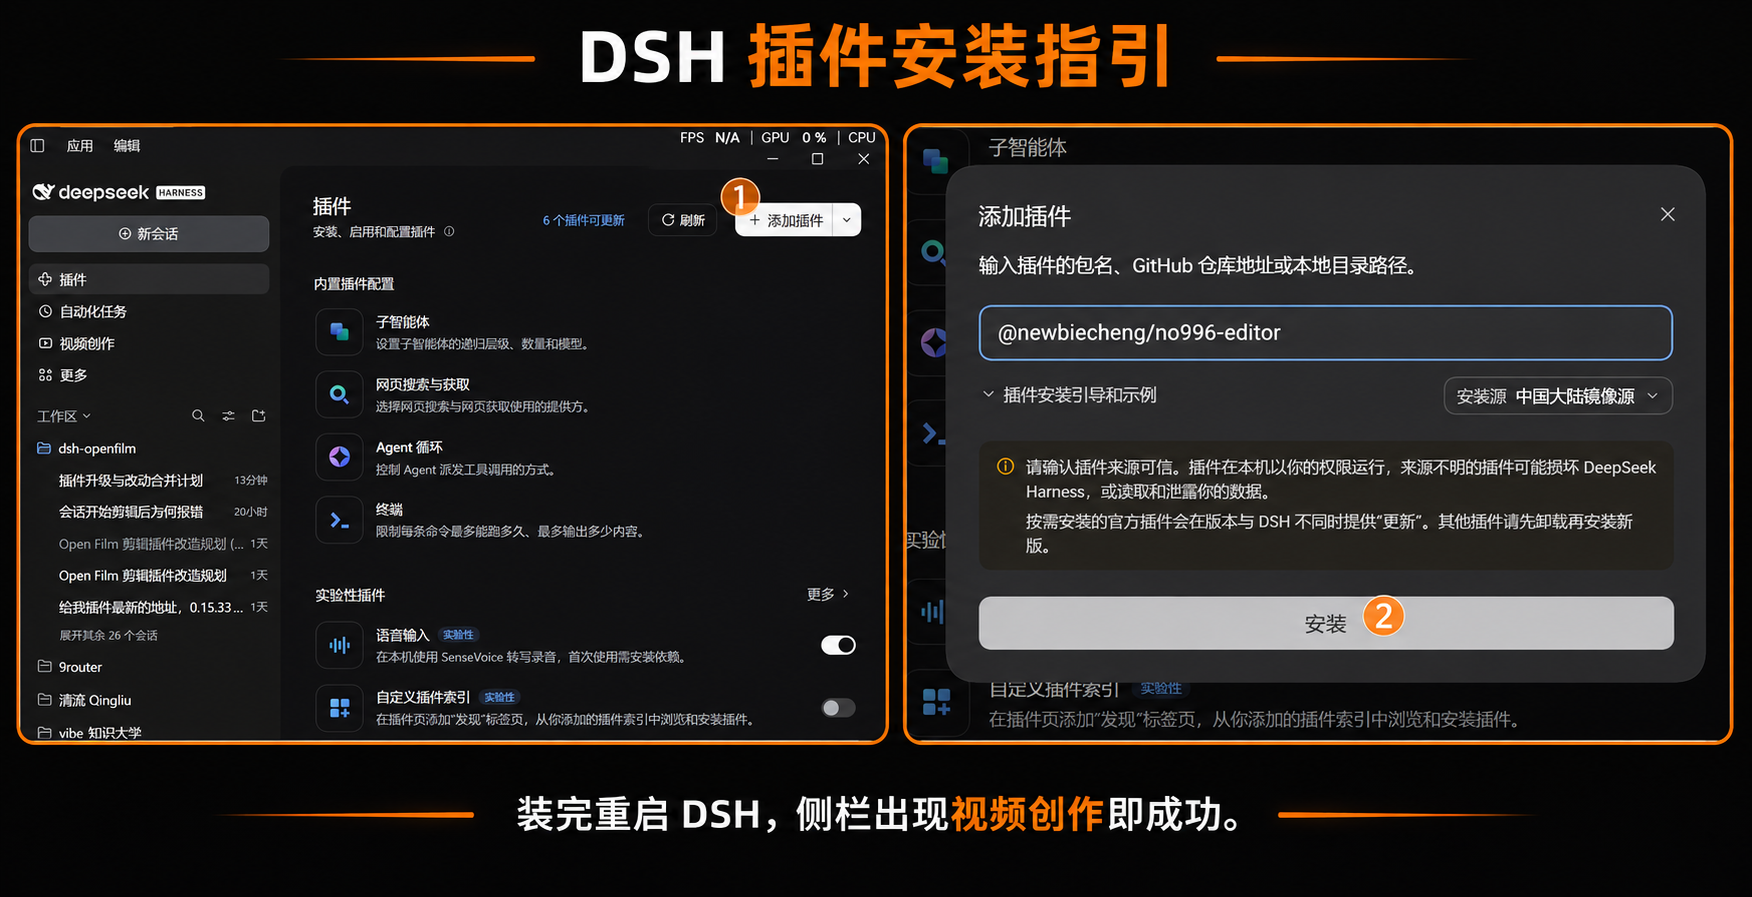
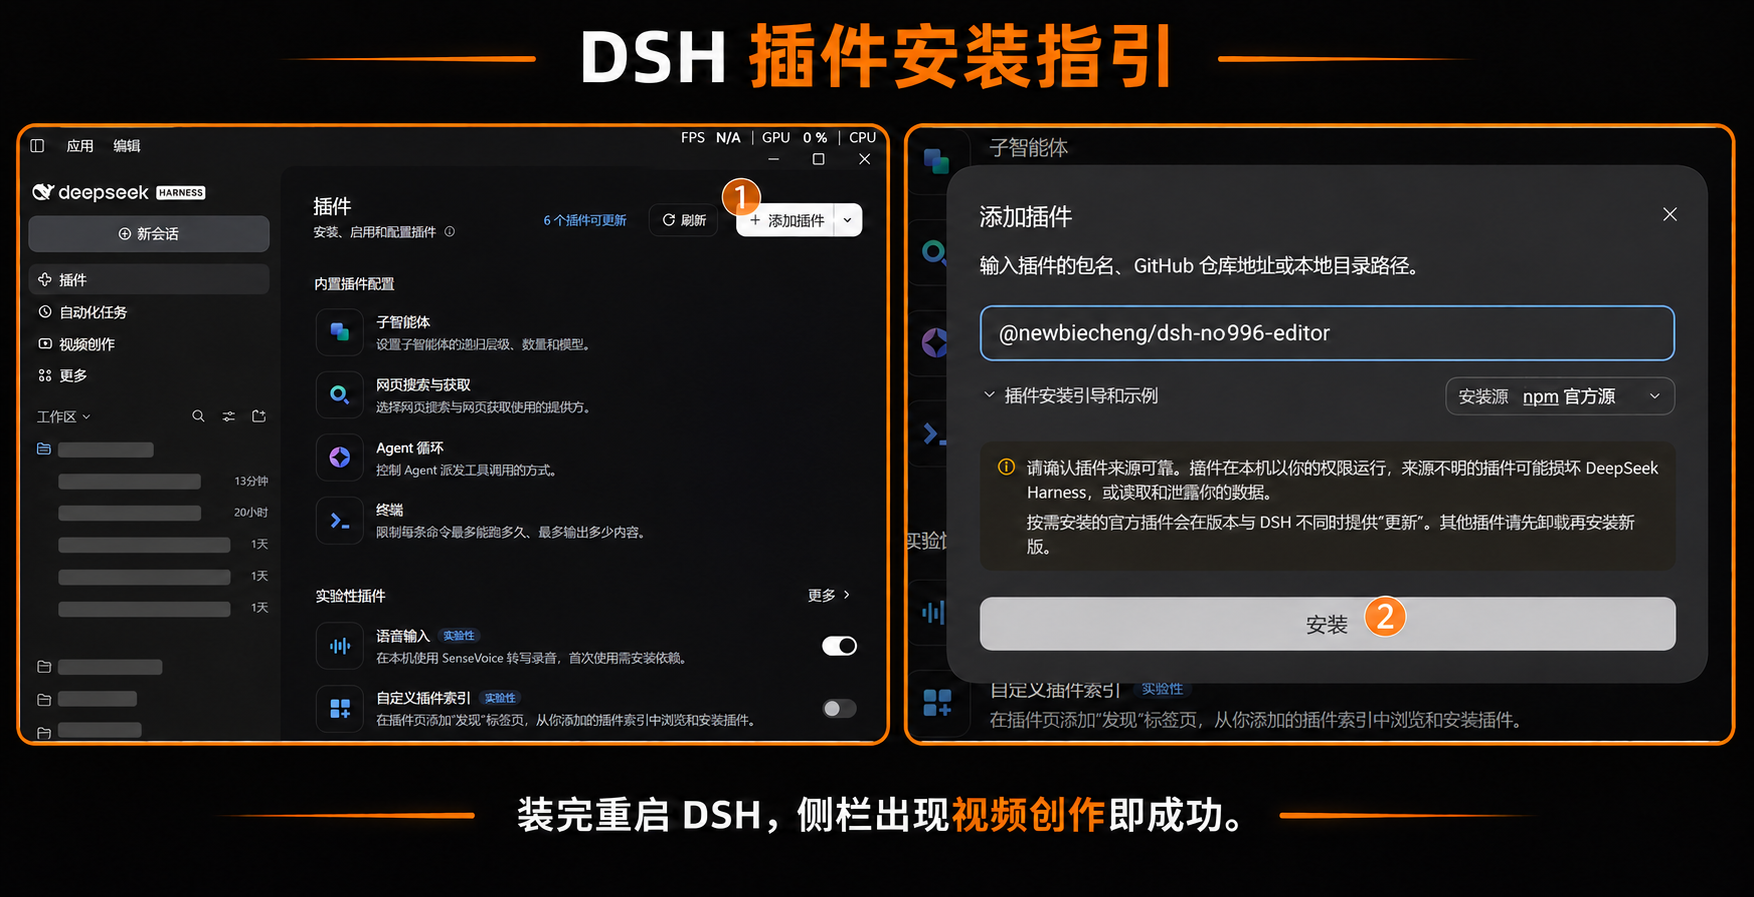
Rename npm distribution to dsh-no996-editor

diff --git a/src/studio/studio-entry.js b/src/studio/studio-entry.js
@@ -8,7 +8,7 @@ import { installDragProbe } from './drag-probe.mjs';
 import { installDropCatcher } from './drop-catcher.mjs';
 
 window.__ModuleLoader__.load({
-  id: '@newbiecheng/no996-editor',
+  id: '@newbiecheng/dsh-no996-editor',
   factory(require) {
     const React = require('react');
     const h = React.createElement;
@@ -153,7 +153,7 @@ window.__ModuleLoader__.load({
         // slot scoped to our package name: the list `plugins.detail.section`
         // renders on EVERY plugin's detail page, which leaked this panel into
         // other bundles. Keying by package keeps it on ours only.
-        ctx.slots.inject('plugins.bundle.config', () => ctx.slots.register({ name: 'plugins.bundle.config', key: '@newbiecheng/no996-editor', locale: NS, label: () => t('envTitle') }, EnvSection));
+        ctx.slots.inject('plugins.bundle.config', () => ctx.slots.register({ name: 'plugins.bundle.config', key: '@newbiecheng/dsh-no996-editor', locale: NS, label: () => t('envTitle') }, EnvSection));
         // `shell.overlay` is rendered for the whole frame lifetime, so the panel
         // it hosts survives page switches instead of reloading Studio each time.
         ctx.slots.inject('shell.overlay', () => ctx.slots.register({ name: 'shell.overlay', id: 'no996-openfilm-panel', order: 0, locale: NS, inject: () => ({ startStudio }) }, PanelKeepAlive));

diff --git a/client.js b/client.js
@@ -2166,7 +2166,7 @@
 
   // src/studio/studio-entry.js
   window.__ModuleLoader__.load({
-    id: "@newbiecheng/no996-editor",
+    id: "@newbiecheng/dsh-no996-editor",
     factory(require2) {
       const React = require2("react");
       const h = React.createElement;
@@ -2323,7 +2323,7 @@
           const t = ctx.locale.bind(NS);
           ctx.slots.inject("main", () => ctx.slots.register({ name: "main", key: PANEL, locale: NS }, PanelSeat));
           ctx.slots.inject("sidebar.panellist", () => ctx.slots.register({ name: "sidebar.panellist", id: PANEL, order: 21, locale: NS, label: () => t("panel") }, PanelIcon));
-          ctx.slots.inject("plugins.bundle.config", () => ctx.slots.register({ name: "plugins.bundle.config", key: "@newbiecheng/no996-editor", locale: NS, label: () => t("envTitle") }, EnvSection));
+          ctx.slots.inject("plugins.bundle.config", () => ctx.slots.register({ name: "plugins.bundle.config", key: "@newbiecheng/dsh-no996-editor", locale: NS, label: () => t("envTitle") }, EnvSection));
           ctx.slots.inject("shell.overlay", () => ctx.slots.register({ name: "shell.overlay", id: "no996-openfilm-panel", order: 0, locale: NS, inject: () => ({ startStudio }) }, PanelKeepAlive));
           try {
             ctx.slots.inject("sidebar.brand.mark", () => {

diff --git a/src/ui/client-entry.js b/src/ui/client-entry.js
@@ -4,7 +4,7 @@ import { layoutTimeline } from '../film/timeline-layout.mjs'
 import { startDraft, appendDraft, undoDraft } from '../film/draft-session.mjs'
 
 window.__ModuleLoader__.load({
-  id: '@newbiecheng/no996-editor',
+  id: '@newbiecheng/dsh-no996-editor',
   factory(require) {
     const React = require('react')
     const h = React.createElement

diff --git a/docs/playbooks/publish.md b/docs/playbooks/publish.md
@@ -15,9 +15,9 @@ rot-if: 换 registry、包名、scope 大小写规则、或 DSH 安装/更新方
 
 | 项 | 值 |
 |---|---|
-| 包名 | `@newbiecheng/no996-editor`（**全小写**；大写 scope → 无「版本」区） |
+| 包名 | `@newbiecheng/dsh-no996-editor`（**全小写**；大写 scope → 无「版本」区） |
 | Registry | `https://registry.npmjs.org/` |
-| 产物 | https://www.npmjs.com/package/@newbiecheng/no996-editor |
+| 产物 | https://www.npmjs.com/package/@newbiecheng/dsh-no996-editor |
 | 源码 | GitHub `NewbieCheng/no996-editor`（`main`） |
 | 本机发版脚本 | `scripts/npmjs-publish.ps1`（读 `.npmjs-token.tmp` 或 `NPM_TOKEN`，需 bypass-2FA 的发布 token） |
 | CI 发版 | 暂未配置；本机脚本发版 |
@@ -63,7 +63,7 @@ rot-if: 换 registry、包名、scope 大小写规则、或 DSH 安装/更新方
 ### 1.2 安装
 
 ```powershell
-dsh plugin --profile desktop add @newbiecheng/no996-editor
+dsh plugin --profile desktop add @newbiecheng/dsh-no996-editor
 ```
 
 或在 DSH 插件管理器按包名安装。出现 `restart-required` → **整应用重启** DSH。
@@ -73,22 +73,22 @@ dsh plugin --profile desktop add @newbiecheng/no996-editor
 `~/.dsh/profiles/desktop/package.json`：
 
 ```json
-"dependencies": { "@newbiecheng/no996-editor": "0.15.29" },
-"dsh": { "profile": { "bundles": [ "…", "@newbiecheng/no996-editor" ] } }
+"dependencies": { "@newbiecheng/dsh-no996-editor": "0.15.29" },
+"dsh": { "profile": { "bundles": [ "…", "@newbiecheng/dsh-no996-editor" ] } }
 ```
 
 物理目录必须存在：
 
-`~/.dsh/profiles/desktop/node_modules/@newbiecheng/no996-editor/package.json`
+`~/.dsh/profiles/desktop/node_modules/@newbiecheng/dsh-no996-editor/package.json`
 
-插件详情应有「版本」区；代码来源类似 `@newbiecheng/no996-editor@0.15.29`（不是本机路径、`link:`、`file:.tgz`）。
+插件详情应有「版本」区；代码来源类似 `@newbiecheng/dsh-no996-editor@0.15.29`（不是本机路径、`link:`、`file:.tgz`）。
 
 ---
 
 ## 2. 用户：更新
 
 1. 维护者发新版后，打开插件详情 →「版本」→ 有新版本则点更新；或点「重新检查」。
-2. CLI：`dsh plugin --profile desktop add @newbiecheng/no996-editor@<新版本>`
+2. CLI：`dsh plugin --profile desktop add @newbiecheng/dsh-no996-editor@<新版本>`
 3. `restart-required` → 整应用重启。更新前保存 Studio 未保存编辑。
 
 验收：当前版本号 = 刚发的版本；「已是最新版本」或等价文案。
@@ -101,11 +101,11 @@ dsh plugin --profile desktop add @newbiecheng/no996-editor
 
 ### 3.1 改版本与说明（同批）
 
-1. 查询已发布版本：`npm view @newbiecheng/no996-editor version --registry https://registry.npmjs.org/`；结合 `git tag --list 'v*'` 与本地版本选未占用的新版本。查询失败先排查权限、网络或 registry，不能当作未发布。
+1. 查询已发布版本：`npm view @newbiecheng/dsh-no996-editor version --registry https://registry.npmjs.org/`；结合 `git tag --list 'v*'` 与本地版本选未占用的新版本。查询失败先排查权限、网络或 registry，不能当作未发布。
 2. `package.json` 的 `version`；`package-lock.json` 的顶层 `version` 和 `packages[""].version` 同步。
 3. `CHANGELOG.md` 顶栏新节只写用户可见变化、兼容性和必要迁移；复杂故障证据放排障手册，历史版本不改写。`docs/STATE.md` 更新当前版本与 `checked`；其他写死当前版本的说明也要核对，或改为引用版本来源。
 
-包名保持 `@newbiecheng/no996-editor`。若改了客户端入口 / `cordis.patch.yml`，确认模块名与 ModuleLoader `id` **等于包名**。
+包名保持 `@newbiecheng/dsh-no996-editor`。若改了客户端入口 / `cordis.patch.yml`，确认模块名与 ModuleLoader `id` **等于包名**。
 
 ### 3.2 本地闸门
 
@@ -114,6 +114,8 @@ npm run shell:bake
 npm run build
 # 检查生成物并按授权提交；正式发版要求工作区干净
 npm run release:check   # 完整检查、registry、临时构建/打包；不发布
+# 全新 npm 包名首次发布时，允许公开查询返回 E404：
+# npm run release:check -- --first-publish
 ```
 
 ### 3.3 发布到 npmjs.org
@@ -127,24 +129,26 @@ pwsh -ExecutionPolicy Bypass -File .\scripts\npmjs-publish.ps1
 
 脚本流程：`build` → `pack-tgz.mjs` → 在**系统临时目录**解压 tgz、改写 `publishConfig.registry` 为 npmjs → `npm publish` → finally 删除临时文件与临时 `.npmrc`。不要手改仓库里的 `package.json` 来切 registry。
 
-**发版前必须先确认版本号没被用掉**：npm 规定同一 `name@version` 一旦发布，即使 unpublish 也**不能再发**（会 409）。撤销过的版本必须换新号。查：`npm view <包名>@<版本> version --registry https://registry.npmjs.org/`，404 才算未占用；注意 npmjs 索引延迟，发布后短时间 404 不代表失败。
+**发版前必须先确认版本号没被用掉**：npm 规定同一 `name@version` 一旦发布，即使 unpublish 也**不能再发**（会 409）。撤销过的版本必须换新号。查：`npm view <包名>@<版本> version --registry https://registry.npmjs.org/`，公开查询返回 404 只表示该版本当前不可见，不代表未占用（暂存版本也可能返回 404）。
+
+**发布异常时停止重发**：用 PowerShell 7 和官方 npm CLI，先通过计划使用的代理和 `https://registry.npmjs.org/` 做只读 `npm ping` / `npm view`。临时 `--userconfig` 会替换用户级 `.npmrc`；需要代理时显式传 `--https-proxy`，不要仅凭浏览器能访问就认定 npm 走了代理。若 `latest` 指向 `0.0.0-stage`，或发布返回 `409 previously staged`，只查一次 `npm stage list` 和公开版本。能找到暂存项则由包所有者批准；找不到则保留版本号、提交时间和脱敏错误给 [npm 支持](https://www.npmjs.com/support)，不要反复上传、升版本或删除现有版本。不要在命令文本或日志中写入 token；已暴露的 token 先吊销。
 
 ### 3.4 发布后验收（未过不许写「完成」）
 
 ```powershell
-npm view @newbiecheng/no996-editor version --registry https://registry.npmjs.org/
+npm view @newbiecheng/dsh-no996-editor version --registry https://registry.npmjs.org/
 ```
 
 - `npm view <包名>@<版本> version` 输出 = 刚发的版本（**索引可能延迟几十分钟**；期间 PUT 202 表示服务端已接受，不要重发或换名）
 - 直接查 packument 的 `versions` 与单版本端点 `/<name>/<version>` 都出现该版本
 - `pnpm view <包名>@<版本> dsh` 能读到 `dsh.bundle`（GUI 更新的必要条件）
-- https://www.npmjs.com/package/@newbiecheng/no996-editor 能看到该版本
+- https://www.npmjs.com/package/@newbiecheng/dsh-no996-editor 能看到该版本
 - 真机：desktop 已是 registry 包 → 更新或重装 → 整应用重启 →「版本」区与侧栏「视频创作」正常
 
 **为什么必须是 npmjs.org（2026-11-19 实证）：** DSH 的版本区靠 `pnpm view <包名>@<版本>` 的 `dsh.bundle` 判定能否安装。GitLab 与 GitHub Packages 落库都不保存 `dsh`，GUI 会显示「没有声明组合包，无法安装」；npmjs.org 保留完整 packument。CLI 更新在两种 registry 下都可用，但 GUI 更新只有 npmjs 可用。
 
 ```powershell
-dsh plugin --profile desktop add @newbiecheng/no996-editor@<版本>
+dsh plugin --profile desktop add @newbiecheng/dsh-no996-editor@<版本>
 ```
 
 发布后运行 `node scripts/verify-registry-dsh.mjs`：它检查源码里的 `dsh.bundle.patch` 并核对 registry 是否保留。输出 `REGISTRY-GUI: dsh bundle declaration present` 才算 GUI 可更新；输出 `RELEASE-PACKAGE` 且退出码 1 是包本身出错。
@@ -160,10 +164,10 @@ dsh plugin --profile desktop install
 ## 4. 回滚
 
 ```powershell
-dsh plugin --profile desktop add @newbiecheng/no996-editor@<旧版本>
+dsh plugin --profile desktop add @newbiecheng/dsh-no996-editor@<旧版本>
 ```
 
-或对该 bundle `disabled: true` / `dsh plugin remove @newbiecheng/no996-editor`。
+或对该 bundle `disabled: true` / `dsh plugin remove @newbiecheng/dsh-no996-editor`。
 
 ---
 
@@ -173,7 +177,7 @@ dsh plugin --profile desktop add @newbiecheng/no996-editor@<旧版本>
 |---|---|---|
 | `ERR_PNPM_IGNORED_BUILDS`（`ffmpeg-static` / `protobufjs`），退出码 1 但依赖其实已经装上 | DSH 自带 pnpm 11 默认不给依赖跑安装脚本；`allowBuilds` 必须在 profile 的 `pnpm-workspace.yaml` 里（`onlyBuiltDependencies` 已被 pnpm 11 取代） | 在 `$DSH_HOME/profiles/desktop/pnpm-workspace.yaml` 加 `allowBuilds` 下 `ffmpeg-static: true`、`protobufjs: true`，再跑一次 `add`；不加也能用，但 ffmpeg 二进制与 protobuf 的安装脚本不会执行 |
 | 有插件、无「版本」区 | scope 非全小写，过不了 DSH `PACKAGE_NAME` | 必须用 `@newbiecheng/…` 重发并重装 |
-| 「包不可用」/ cannot resolve bundle | `node_modules/@newbiecheng/no996-editor` 不存在 | `dsh plugin --profile desktop install`；勿手删 scope 目录 |
+| 「包不可用」/ cannot resolve bundle | `node_modules/@newbiecheng/dsh-no996-editor` 不存在 | `dsh plugin --profile desktop install`；勿手删 scope 目录 |
 | Windows 删 `@NewbieCheng` 把新包装没了 | NTFS 大小写不敏感，两 scope 是同一目录 | 只 `dsh plugin remove/add`，不要手删 `@*newbie*` |
 | 「版本」在但像连不上源 | 装错 registry（GitLab/GitHub 丢 `dsh`）| 发布通道必须是 npmjs.org |
 | 侧栏「视频创作」没了 | 客户端 ModuleLoader `id` ≠ 包名 | `id` / cordis 模块名改成包名全文，发补丁版 |

diff --git a/README.md b/README.md
@@ -18,21 +18,21 @@
 
 ## 安装与更新
 
-包名：`@newbiecheng/no996-editor`，发布在 npmjs.org，公开可装、无需 token。
+新包名：`@newbiecheng/dsh-no996-editor`（[npm 包页](https://www.npmjs.com/package/@newbiecheng/dsh-no996-editor)，以官方源可查询到正式版本为准）。旧包 `@newbiecheng/no996-editor` 不再维护。npm 不会跨包名自动更新：安装新包前，请先停用旧包，避免两个插件同时运行。
 
 ### 方法一：界面安装（推荐，对照下图 3 步）
 
 1. DSH 左侧进「插件」页，点右上角「＋ 添加插件」。
 2. 弹框输入框里**只填包名**（不要填整条命令）：
-   `@newbiecheng/no996-editor`
-3. 安装源保持默认，点「安装」。装完按提示**重启 DSH**，侧栏出现「视频创作」即成功。
+   `@newbiecheng/dsh-no996-editor`
+3. 安装源选择 **npm 官方源（npmjs.org）**，点「安装」。装完按提示**重启 DSH**，侧栏出现「视频创作」即成功。
 
 ![手动安装指引](docs/assets/install-guide.png)
 
 ### 方法二：命令安装
 
 ```powershell
-dsh plugin --profile desktop add @newbiecheng/no996-editor
+dsh plugin --profile desktop add @newbiecheng/dsh-no996-editor
 ```
 
 之后可在「版本」Tab 检测并一键更新；出现 `restart-required` 时完整重启 DSH。更新前保存未保存的编辑。安装/更新/发版手册见 [`docs/playbooks/publish.md`](docs/playbooks/publish.md)。
@@ -75,4 +75,4 @@ dsh plugin --profile desktop add @newbiecheng/no996-editor
 
 ## English summary
 
-No996 Editor is an AI video editing workbench delivered as a DSH plugin: a full editing environment on the left, a native DSH conversation on the right. It supports conversational editing, storyboard planning, timeline editing, transcript and subtitles, free CC0 media, and local person-cutout / face-position tools. Install `@newbiecheng/no996-editor` from npmjs.org. Requires Node 22.2+, a DSH host with native session controller, and ffmpeg/ffprobe. Released under the GNU General Public License v3 or later (see LICENSE). Bundled third-party components keep their own licenses under vendor/official-shell and THIRD_PARTY_NOTICES.md. Based on OpenFilm 0.4.0.
+No996 Editor is an AI video editing workbench delivered as a DSH plugin: a full editing environment on the left, a native DSH conversation on the right. It supports conversational editing, storyboard planning, timeline editing, transcript and subtitles, free CC0 media, and local person-cutout / face-position tools. Install `@newbiecheng/dsh-no996-editor` from npmjs.org. Requires Node 22.2+, a DSH host with native session controller, and ffmpeg/ffprobe. Released under the GNU General Public License v3 or later (see LICENSE). Bundled third-party components keep their own licenses under vendor/official-shell and THIRD_PARTY_NOTICES.md. Based on OpenFilm 0.4.0.

diff --git a/AGENTS.md b/AGENTS.md
@@ -12,7 +12,7 @@
 
 1. **不碰用户既有项目和会话。** 模板安装只新建目录；不迁移、不删除、不改写别人的 `film.html`。
 2. **自动化测试禁止真实模型调用。** 只用 mock 与 `mkdtemp`。
-3. **源码只推 GitHub `NewbieCheng/dsh-no996-editor`（main 分支）。** 插件只从 npmjs.org 安装/更新（包名 **`@newbiecheng/no996-editor`，必须小写**），手册 [`docs/playbooks/publish.md`](docs/playbooks/publish.md)；不要把 npmjs 当源码主仓，不要用本地 `.tgz` / `link:` 当用户通道。
+3. **源码只推 GitHub `NewbieCheng/dsh-no996-editor`（main 分支）。** 插件只从 npmjs.org 安装/更新（包名 **`@newbiecheng/dsh-no996-editor`，必须小写**），手册 [`docs/playbooks/publish.md`](docs/playbooks/publish.md)；不要把 npmjs 当源码主仓，不要用本地 `.tgz` / `link:` 当用户通道。
 4. **未验证不得声称完成。** 真机 GUI 里看到行为才算“好了”。
 5. **不要把 `openfilm_draft` 当保存**（纯内存草稿）；**不要把 Studio 代理当安全边界**（本机回环集成，不是沙箱）。
 
@@ -27,7 +27,7 @@
 | 事 | 命令 / 动作 |
 |---|---|
 | 本机调试装 | 打包工作区 → `dsh plugin --profile desktop add <本地包>`（仅本机调试；先记下当前版本，验证完按需回滚） |
-| 用户装 / 更 | `dsh plugin --profile desktop add @newbiecheng/no996-editor` / 版本选项卡 → 整应用重启 |
+| 用户装 / 更 | `dsh plugin --profile desktop add @newbiecheng/dsh-no996-editor` / 版本选项卡 → 整应用重启 |
 | 发 | 版本与说明、烘焙/构建产物就绪并提交 → `npm run release:check`（完整检查、registry 与构建打包验证；不发布）→ **用户当轮明确要求后**运行 `powershell -File .\scripts\npmjs-publish.ps1` → `npm view` + 真机「版本」区 |
 | 包丢了 | `dsh plugin --profile desktop install`（勿在 Windows 手删 `@NewbieCheng`/`@newbiecheng` 目录） |
 

diff --git a/docs/ARCHITECTURE.md b/docs/ARCHITECTURE.md
@@ -41,7 +41,7 @@ rot-if: 进程模型、对话边界、预设/模板注入方式变化
 
 ### 2.2 预设联动、指令链与模板提示词注入
 1. **预设与 Skill 隔离**（[cordis.patch.yml](../cordis.patch.yml)）：
-   - `preset-openfilm-video-editing` 内置 `@deepseek-ai/dsh-persona`（剪辑与动效搭档人设）、`@newbiecheng/no996-editor/openfilm-prompt`、`@newbiecheng/no996-editor/openfilm-skills`（仅注册 `skills/` 下的 `openfilm-director`、`openfilm-editing`、`openfilm-motion`），并设 `skill-filesystem.includeDefaultRoots: false`，彻底隔离全局无关 Skill。
+   - `preset-openfilm-video-editing` 内置 `@deepseek-ai/dsh-persona`（剪辑与动效搭档人设）、`@newbiecheng/dsh-no996-editor/openfilm-prompt`、`@newbiecheng/dsh-no996-editor/openfilm-skills`（仅注册 `skills/` 下的 `openfilm-director`、`openfilm-editing`、`openfilm-motion`），并设 `skill-filesystem.includeDefaultRoots: false`，彻底隔离全局无关 Skill。
    - `agent-instructions` 配置 `projectRootMarkers: ['.git', '.film', 'film.html']`，保证影片文件夹自身就是指令根，仓库/单仓上层的 `AGENTS.md` 不进入影片对话。
 2. **模板专属提示词注入**（[template-prompts.mjs](../src/film/template-prompts.mjs)）：
    - 每个视频模板可在 `vendor/templates/<id>/prompt.md`（≤ 2 KB）定义自己的“设定、节奏、镜头与屏上字规矩”。

diff --git a/docs/STATE.md b/docs/STATE.md
@@ -10,7 +10,7 @@ rot-if: 每次发版、或某项从"待验"变成"验过"
 
 > 只有这一篇写进度。别的文档不写"已实现某版本"，只写怎么用、为什么这么定。以下描述以当前工作区源码为准，不等于已发布包或用户桌面已更新；真机结果以具体验收证据为准。
 
-- 当前版本 **0.17.15**（`package.json`，包名 `@newbiecheng/no996-editor`，小写 scope——DSH 版本检测只认小写包名），内置上游 **OpenFilm 0.4.0**（commit `715c3a6`）。安装/更新/发版见 [`playbooks/publish.md`](playbooks/publish.md)。源码仍推 GitHub。
+- 当前版本 **0.17.15**（`package.json`，包名 `@newbiecheng/dsh-no996-editor`，小写 scope——DSH 版本检测只认小写包名），内置上游 **OpenFilm 0.4.0**（commit `715c3a6`）。安装/更新/发版见 [`playbooks/publish.md`](playbooks/publish.md)。源码仍推 GitHub。
 - **GUI 更新检测（2026-11-19 实证）**：GitLab/GitHub Packages 不保存 `dsh` 元数据，DSH 的 `pnpm view name@version` 读不到 `dsh.bundle`，GUI 会显示「没有声明组合包，无法安装」。发布通道已切到 npmjs.org（保留完整 packument），诊断闸门 `node scripts/verify-registry-dsh.mjs`。
 
 ## 能用

diff --git a/CHANGELOG.md b/CHANGELOG.md
@@ -2,6 +2,10 @@
 
 > 新版本只记录用户可见变化、兼容性和必要迁移；故障细节见 [排障手册](docs/playbooks/incident.md)。历史条目保留原貌。
 
+## `@newbiecheng/dsh-no996-editor` 0.17.15 — 新 npm 包名
+
+- 安装命令、DSH 组合包标识和界面安装指引统一改用新包名。旧包不会自动迁移到新包；请先停用旧包再安装新包，影片与会话不需要迁移。
+
 ## 0.17.15 - 同 0.17.13（0.17.13 卡在 registry 暂存态，换号重发）
 
 - 内容与 0.17.13 相同：修复包内 `package.json` BOM。0.17.13 的 PUT 被 registry 记为已暂存但查不到、发不过去，按"同一 name@version 不可复用"处理换号重发。
